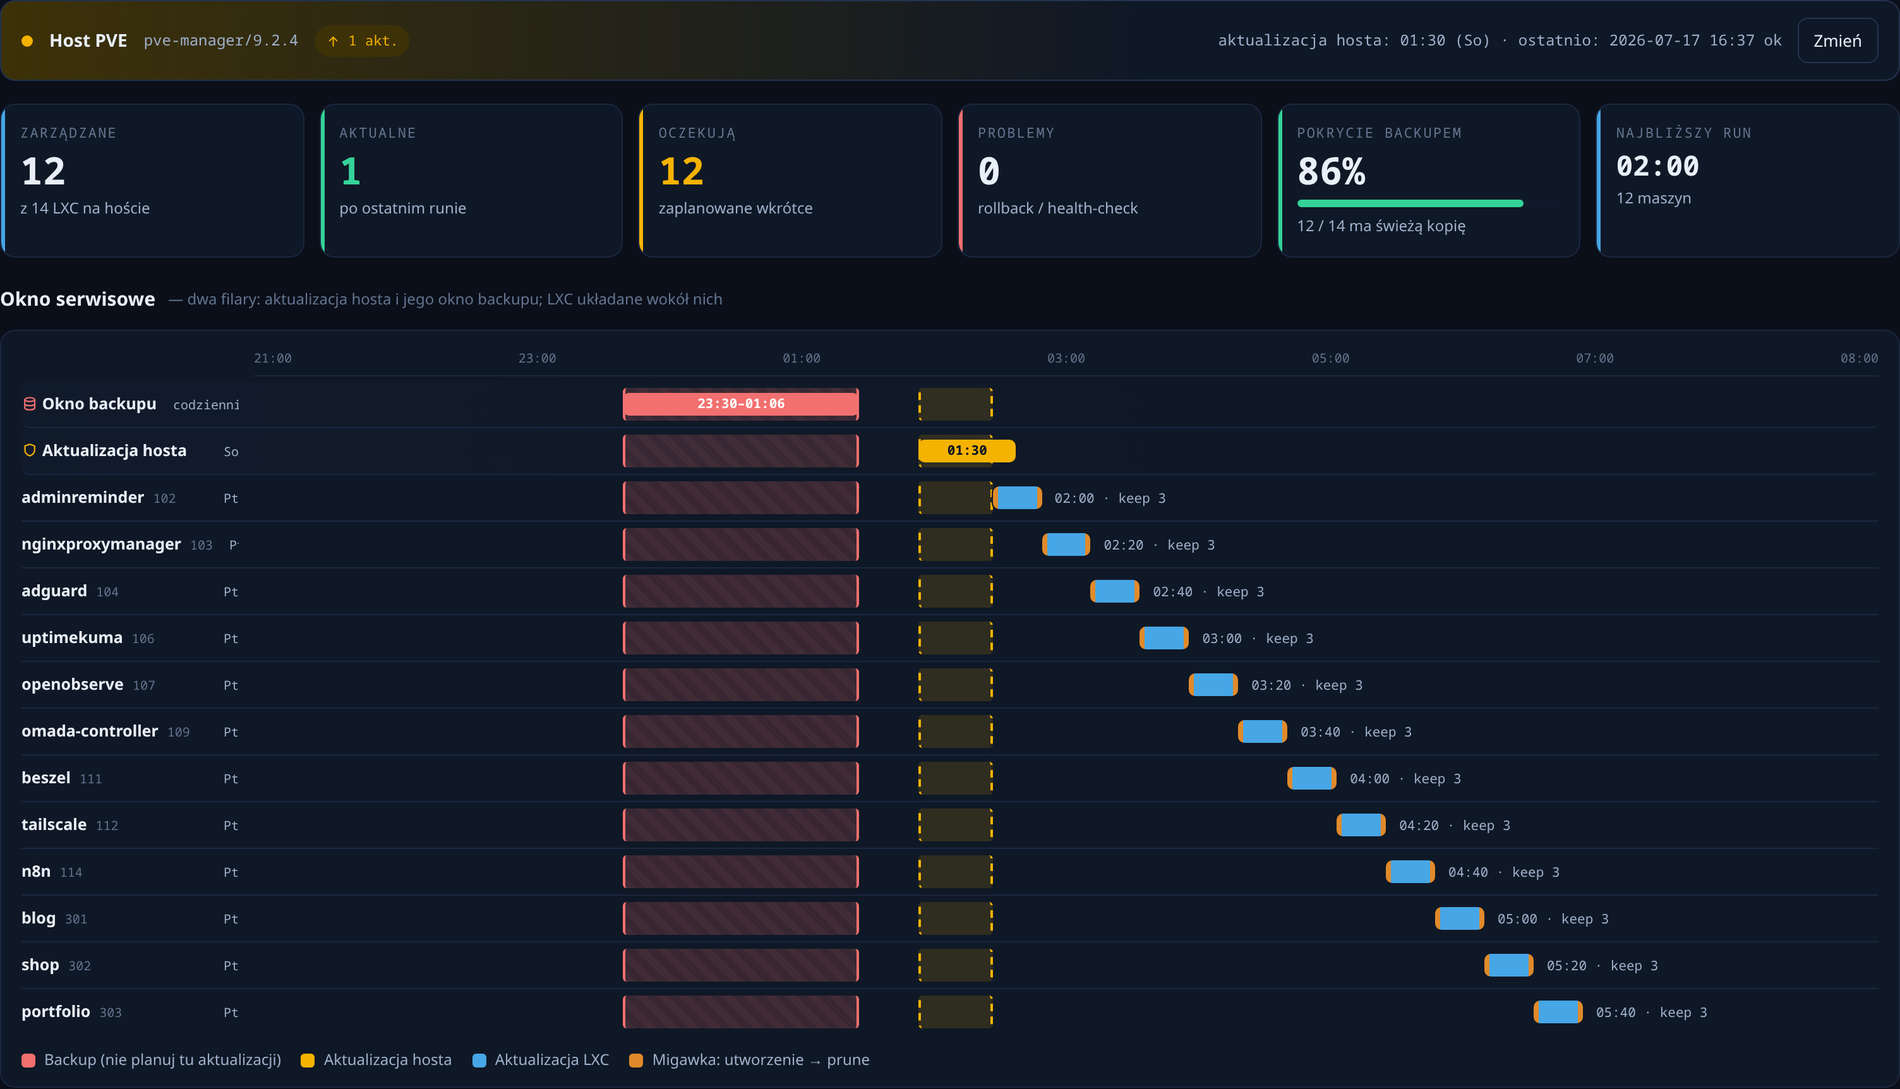
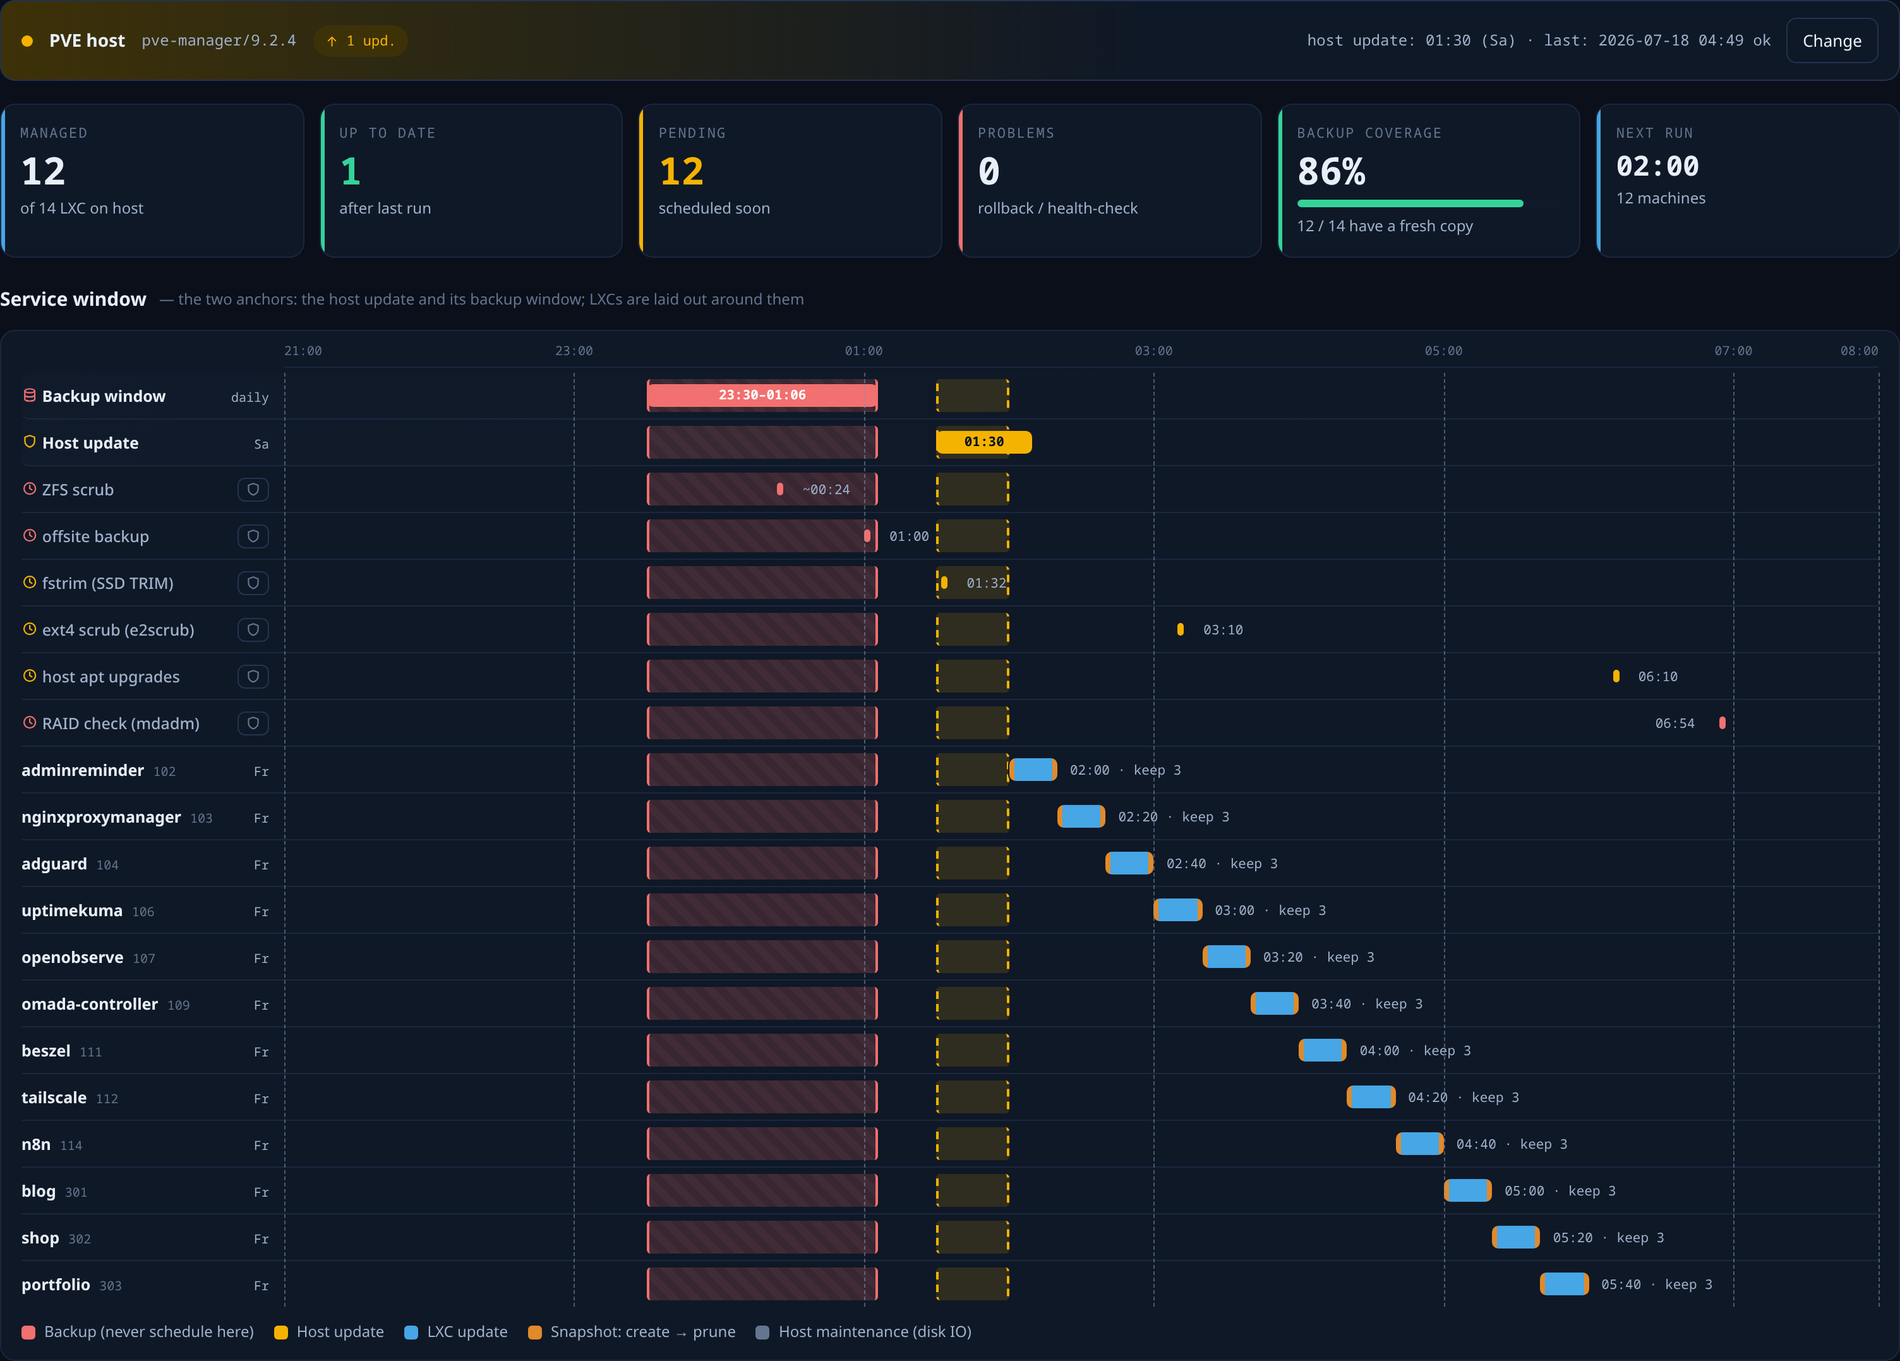
docs: refresh screenshots (EN) with host-maintenance rows + gridlines
Re-render the anonymized dashboard screenshots in English at the current state:
the service window now shows the read-only host-maintenance rows (ZFS scrub/trim,
mdadm check, e2scrub, fstrim, offsite backup) and the hour gridlines. Update the
README caption to mention host-maintenance awareness.

diff --git a/README.md b/README.md
@@ -15,7 +15,10 @@ it reuses the same config/schedule/UI lineage.
 **Service window** — the mission-control view. The two schedule anchors (the daily
 backup window in red, the PVE host update in amber) are drawn across every row, and
 each LXC is laid out around them: a per-machine timeline showing the pre-update
-snapshot → update → prune, its time and retention. EN/PL and light/dark built in.
+snapshot → update → prune, its time and retention. It also surfaces **other
+scheduled host maintenance** that competes for disk IO — ZFS scrub/trim, mdadm
+check, e2scrub, fstrim, unattended apt, offsite backups — as read-only rows you can
+one-click "avoid". EN/PL and light/dark built in.
 
 ![Service window](docs/dashboard-service-window.png)
 